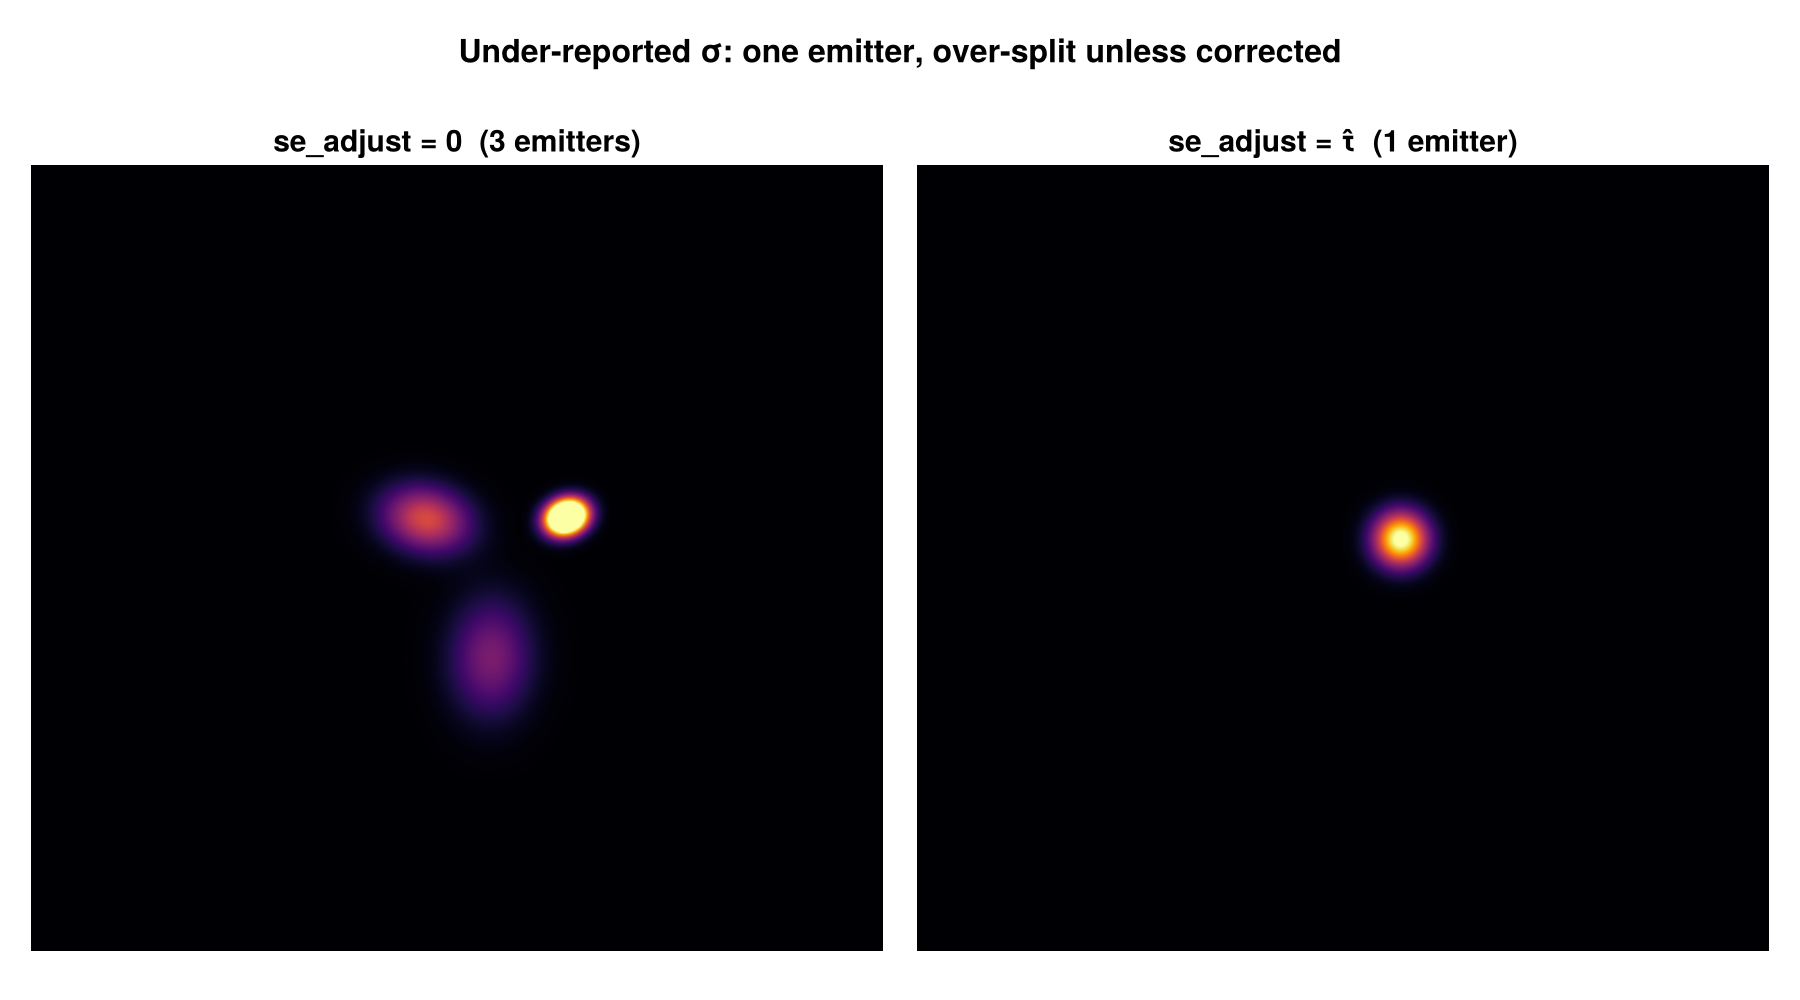
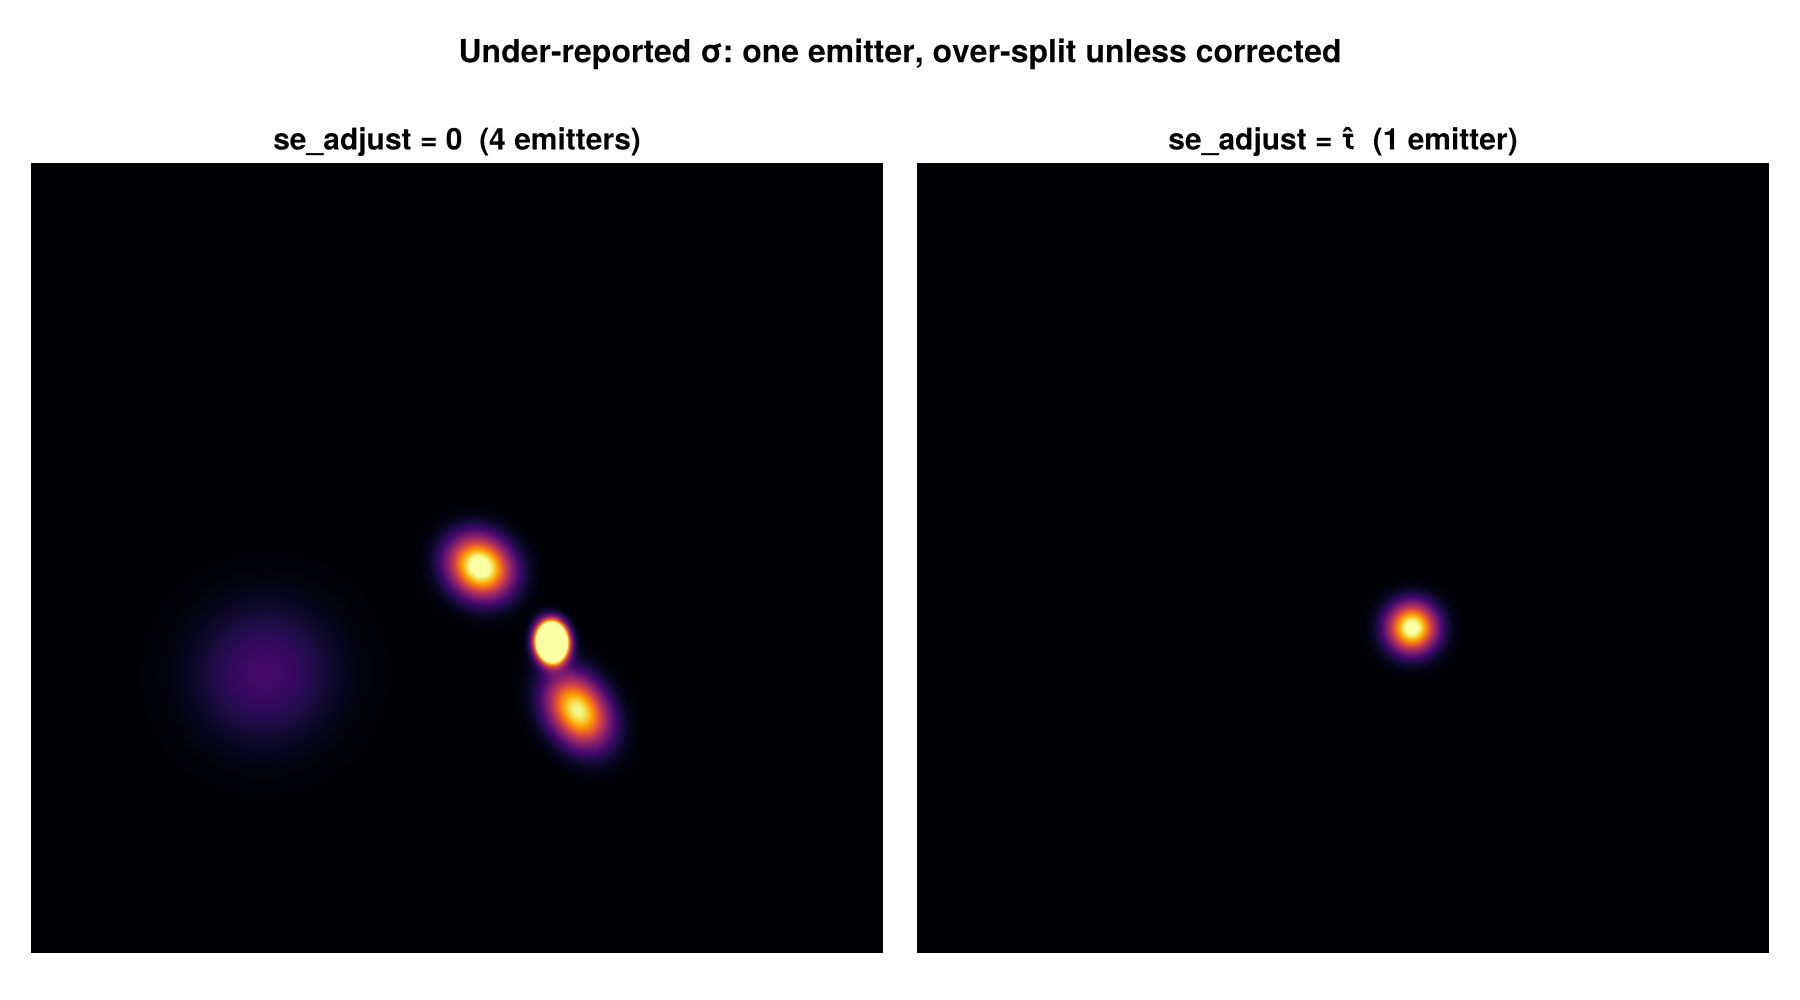
docs: add educational primers + teaching figures (Bayesian/RJMCMC/hierarchical/Dahl/Rao-Blackwell)
Make the docs teach the general methods, not just BaGoL's implementation (per a
Codex consult on approach, placement, and figures):

- Overview: 'Bayesian inference in brief' (prior×likelihood→posterior, why sample,
  output is a distribution) + a P(K) posterior histogram figure; a 'why RJMCMC'
  pedagogical hook.
- Hierarchical: a 'General method: hierarchical/empirical Bayes' box (shared
  hyperparameters, borrowing strength) + a learn→define→feedback flow figure.
- MAP-N: a 'General method: consensus clustering' box (label switching, why you
  can't average partitions, PSM) + a sampled-partitions→PSM→consensus flow figure.
- Collapsed: a 'Rao-Blackwellization' box (integrate nuisance params out exactly).

Each box is intuition-first, one formula max, ending with what to look at in the
output. Builds clean; new figures resolve.

diff --git a/docs/src/math/index.md b/docs/src/math/index.md
@@ -86,12 +86,40 @@ gain.
 BaGoL MAP-N result at the same scale — six resolved emitters. Pipeline: `simulate_nmer` →
 [`run_bagol`](@ref) → [`render_report`](@ref).*
 
+## Bayesian inference in brief
+
+If you are new to Bayesian methods, this is the gist. A **prior** encodes what is plausible
+before seeing the data — how many emitters, how they blink. The **likelihood** says how
+probable the observed localizations are for a given arrangement of emitters. Bayes' rule
+multiplies them into the **posterior** — what remains plausible *after* combining the model
+with the data:
+
+```math
+\underbrace{p(K, \mathbf{z} \mid \mathbf{x})}_{\text{posterior}} \;\propto\;
+\underbrace{p(\mathbf{x} \mid K, \mathbf{z})}_{\text{likelihood}} \;\times\;
+\underbrace{p(K, \mathbf{z})}_{\text{prior}} .
+```
+
+This posterior cannot be written down or maximized directly — there are astronomically many
+ways to group localizations into emitters. So BaGoL **samples** it: the MCMC sampler visits
+groupings in proportion to their posterior probability. The result is therefore not a single
+answer but a **distribution** — for instance a full posterior over the number of emitters
+``K``, from which we read both the most probable count and how much to trust it.
+
+![The posterior is a distribution over K](../assets/overview_posterior_k.png)
+
+*The sampler returns a posterior ``P(K)`` over the emitter count, not just one number. The
+MAP-N estimate (dashed) is its peak; a broad distribution means the data leave ``K``
+genuinely uncertain — something a single point estimate would hide.*
+
 ## How BaGoL samples it: collapsed RJMCMC
 
-The target posterior ``p(K, \mathbf{z}, \boldsymbol{\theta} \mid \mathbf{x})`` lives in a
-space whose **dimension changes with ``K``** — every emitter adds a position
-``\boldsymbol{\theta}_k``. Ordinary MCMC cannot move between models with different numbers of
-parameters; **reversible-jump MCMC (RJMCMC)** can. Its dimension-changing moves — split one
+Standard MCMC walks around a *fixed* set of parameters — it has no move that adds or deletes
+one. But counting emitters needs exactly that. The target posterior
+``p(K, \mathbf{z}, \boldsymbol{\theta} \mid \mathbf{x})`` lives in a space whose **dimension
+changes with ``K``** — every emitter adds a position ``\boldsymbol{\theta}_k``. Ordinary MCMC
+cannot move between models with different numbers of parameters; **reversible-jump MCMC
+(RJMCMC)** is the extension that can. Its dimension-changing moves — split one
 cluster into two, merge two into one, give birth to a new emitter, remove an empty one —
 propose a jump ``K \to K \pm 1`` and accept it with a Metropolis–Hastings ratio constructed
 so the chain's stationary distribution is exactly the posterior. (The moves are detailed on

diff --git a/docs/src/math/hierarchical.md b/docs/src/math/hierarchical.md
@@ -17,6 +17,25 @@ dSTORM dataset and a densely-blinking DNA-PAINT dataset are fit with different l
 Concretely, the hyperparameters are not fixed — they are updated from the data every
 `sync_interval` iterations (default 100), gated by `learn_distribution` (`hierarchical.jl`).
 
+!!! note "General method: hierarchical (empirical) Bayes"
+    Fixing ``\mu`` and ``\alpha`` to guessed values would bake an assumption about your
+    sample's blinking into the result. Instead BaGoL treats them as **shared parameters** of a
+    *hierarchical* model: every emitter's blink count is drawn from one common count
+    distribution, and that distribution's parameters get their own (hyper)priors and are
+    inferred from the data. Because all emitters inform the same ``(\mu, \alpha)``, the
+    estimate **pools information across the whole field** — many emitters with only a few
+    blinks each still pin the distribution down ("borrowing strength"). Learning shared
+    hyperparameters this way is a standard hierarchical-Bayes / empirical-Bayes technique used
+    far beyond SMLM; here it just means you need not know the blinking kinetics in advance.
+    **In your output:** `final_μ` / `final_shape` are the learned values, and the
+    `convergence_trace` shows them settling.
+
+![How the count distribution is learned and fed back](../assets/hier_flow.png)
+
+*The count distribution's parameters are learned from every emitter's blink counts and feed
+straight back into the NegBin model that regularizes ``K`` — relearned every `sync_interval`
+iterations.*
+
 ## ``\mu`` and shape ``\alpha`` — Metropolis–Hastings
 
 Both are updated by a **log-normal random-walk Metropolis–Hastings** step against the

diff --git a/docs/src/math/mapn.md b/docs/src/math/mapn.md
@@ -9,6 +9,23 @@ The chain yields a full posterior over ``(K, \mathbf{z})``. For a point summary,
 count and a reference grouping, then overlap-Hungarian pooling for positions and uncertainty
 (`mapn.jl`).
 
+!!! note "General method: consensus clustering"
+    The chain does not return one grouping — it returns a *distribution* over groupings, and we
+    need a single representative one. You cannot simply average partitions: cluster **labels
+    are arbitrary**, so "cluster 1" in one sample need not be "cluster 1" in another (label
+    switching), and the average of two partitions is not even a partition. The fix is a
+    label-free summary — the **posterior similarity matrix (PSM)**, the fraction of samples in
+    which each *pair* of localizations lands in the same emitter; pairwise co-assignment does
+    not care what the clusters are called. Dahl's method then returns the single *sampled*
+    partition that best matches this average co-assignment, so the answer is always a real,
+    achievable grouping rather than an artificial average. This consensus-from-co-assignment
+    idea is general to clustering, not specific to BaGoL.
+
+![Dahl consensus: sampled partitions to PSM to closest sample](../assets/mapn_dahl.png)
+
+*Many sampled partitions are reduced to their pairwise co-assignment matrix (the PSM); Dahl
+returns the sampled partition closest to it — the consensus grouping.*
+
 ## Dahl consensus
 
 [`estimate_dahl`](@ref) chooses the visited sample whose pairwise co-assignment matrix is

diff --git a/docs/src/math/collapsed.md b/docs/src/math/collapsed.md
@@ -80,3 +80,14 @@ quantity every move scores against. Because the state is purely discrete, every 
 is a re-partitioning of localizations, and the acceptance ratio is a ratio of marginal
 likelihoods and prior factors — no continuous-parameter proposal, no Jacobian. The next
 page derives that marginal likelihood for both spatial models.
+
+!!! note "General method: collapsing (Rao–Blackwellization)"
+    Whenever some parameters can be integrated out *exactly*, it is usually worth doing:
+    sampling fewer, lower-variance quantities makes MCMC both faster and less noisy — a
+    standard trick called **Rao–Blackwellization**. Here the emitter positions
+    ``\boldsymbol{\theta}_k`` are nuisance parameters; Gaussian conjugacy lets us replace
+    "sample each position, then score" with a single closed-form marginal likelihood per
+    cluster. The chain then explores only the discrete groupings, and the positions are
+    recovered analytically at the end. The same idea underlies the Rao-Blackwellized posterior
+    image, which blurs each cluster by its *posterior* covariance instead of plotting point
+    estimates.
